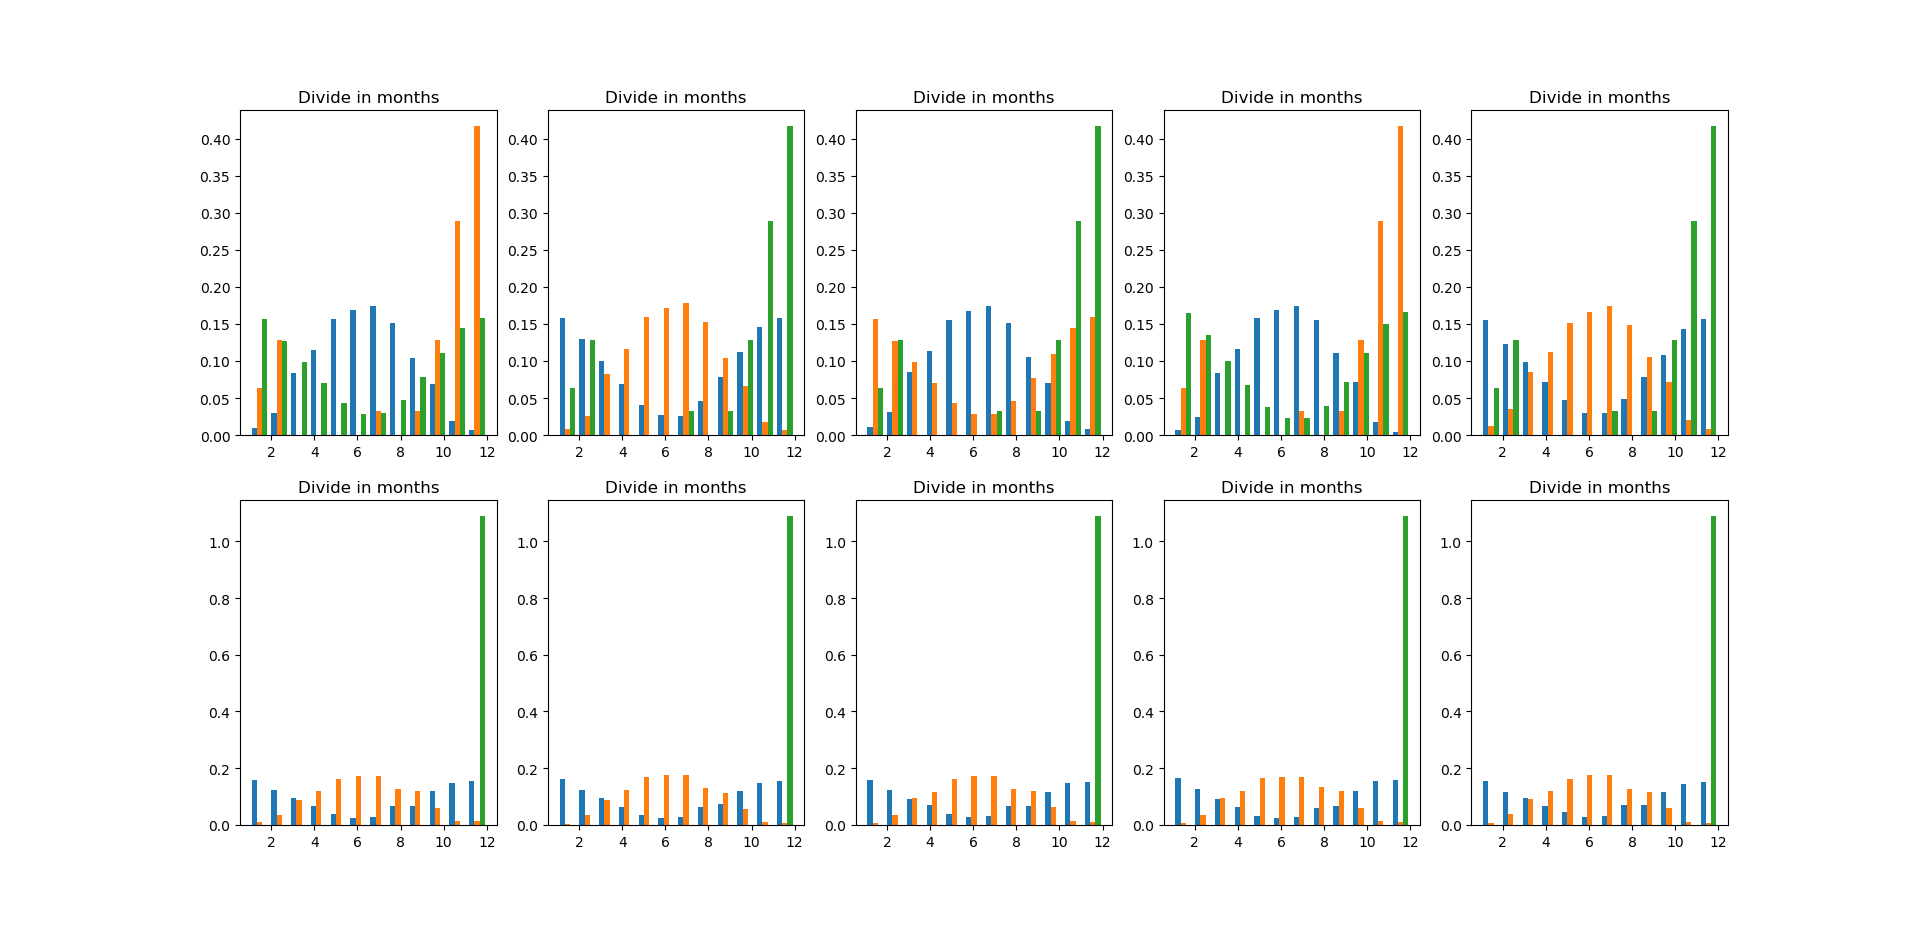
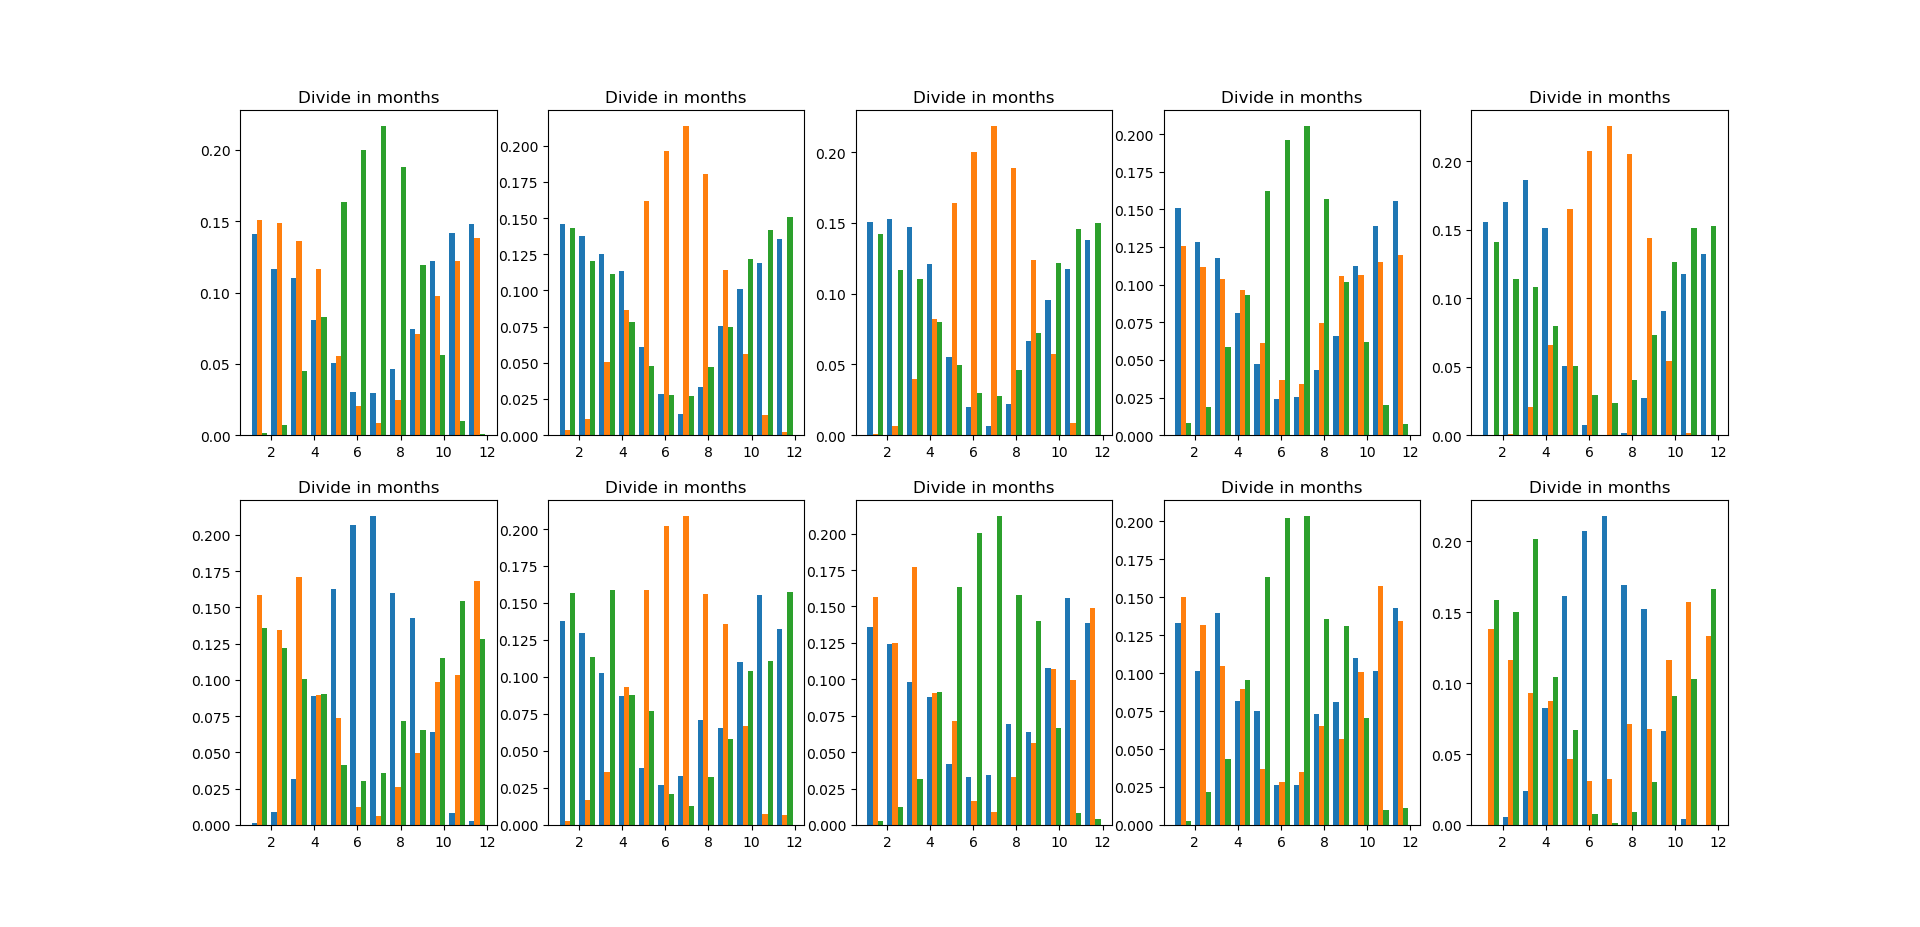
Added some pictures, new python files for clustering first/last 10 years and stationwise

diff --git a/Clustering/Clustering_stationwise.py b/Clustering/Clustering_stationwise.py
@@ -1,0 +1,69 @@
+import datetime
+import numpy as np
+import matplotlib.pyplot as plt 
+from sklearn.cluster import KMeans
+from sklearn.metrics import silhouette_samples, silhouette_score
+
+Data = np.load('../Datares/tensor_daily_mean_5D.npy')
+NanINDX = np.argwhere(np.isnan(Data))
+for i in range(len(NanINDX)):
+    Data[NanINDX[i][0],NanINDX[i][1],NanINDX[i][2],NanINDX[i][3],NanINDX[i][4]] = 200
+
+st = 0
+STATIONS = ['Marsdiep Noord','Doove Balg West',
+                'Vliestroom','Doove Balg Oost',
+                'Blauwe Slenk Oost','Harlingen Voorhaven','Dantziggat',
+                'Zoutkamperlaag Zeegat','Zoutkamperlaag',
+                'Harlingen Havenmond West']
+"""
+0 'Marsdiep Noord'
+1 'Doove Balg West',
+2 'Vliestroom'
+3'Doove Balg Oost'
+4 'Blauwe Slenk Oost',
+5 'Harlingen Voorhaven',
+6 'Dantziggat',
+7 'Zoutkamperlaag Zeegat'
+8 'Zoutkamperlaag',
+9 'Harlingen Havenmond West'
+"""
+
+mdl = 0
+MODELS = ['CNRM-CERFACS-CNRM-CM5','ICHEC-EC-EARTH', 
+          'IPSL-IPSL-CM5A-MR','MOHC-HadGEM2-ES','MPI-M-MPI-ESM-LR']
+"""
+0 'CNRM-CERFACS-CNRM-CM5'
+1 'ICHEC-EC-EARTH'
+2 'IPSL-IPSL-CM5A-MR'
+3 'MOHC-HadGEM2-ES'
+4 'MPI-M-MPI-ESM-LR'
+"""
+exp = 0
+EXPERIMENTS = ['rcp45','rcp85']
+
+SubData = Data[:,:,:,mdl,exp]
+AllData = SubData[:,:,0]
+for i in range(1,10):
+    AllData = np.vstack((AllData,SubData[:,:,i]))
+    
+n_clusters = 7
+clusterer = KMeans(n_clusters=n_clusters, random_state=10).fit(AllData)
+cluster_labels = clusterer.labels_
+
+n = len(SubData)
+
+def StationCounter(Labels,n_clusters,AllData):
+    Dat = [[] for i in range(n_clusters)]
+    for station in range(10):
+        for i in range(len(Data)):
+            indx = n*station + i
+            lab = Labels[indx]
+            Dat[lab].append(station)       
+    return(Dat)
+
+test = StationCounter(cluster_labels,n_clusters,AllData)
+fig1, axes = plt.subplots(nrows=2, ncols=1)
+ax0, ax1 = axes.flatten()
+ax0.hist(test, 10, density=True, histtype='bar')
+ax0.set_title('Divide in months')
+

diff --git a/Clustering/Clustering_10years_comparison_Eva.py b/Clustering/Clustering_10years_comparison_Eva.py
@@ -66,7 +66,7 @@ EXPERIMENTS = ['rcp45','rcp85']
 
 SubData = Data[:,:,:,mdl,exp]
 
-n_clusters = 2
+n_clusters = 3
 std = 1
 for i in range(SubData.shape[1]):
     SubData[:,i,:] = SubData[:,i,:]-SubData[:,i,:].mean()
